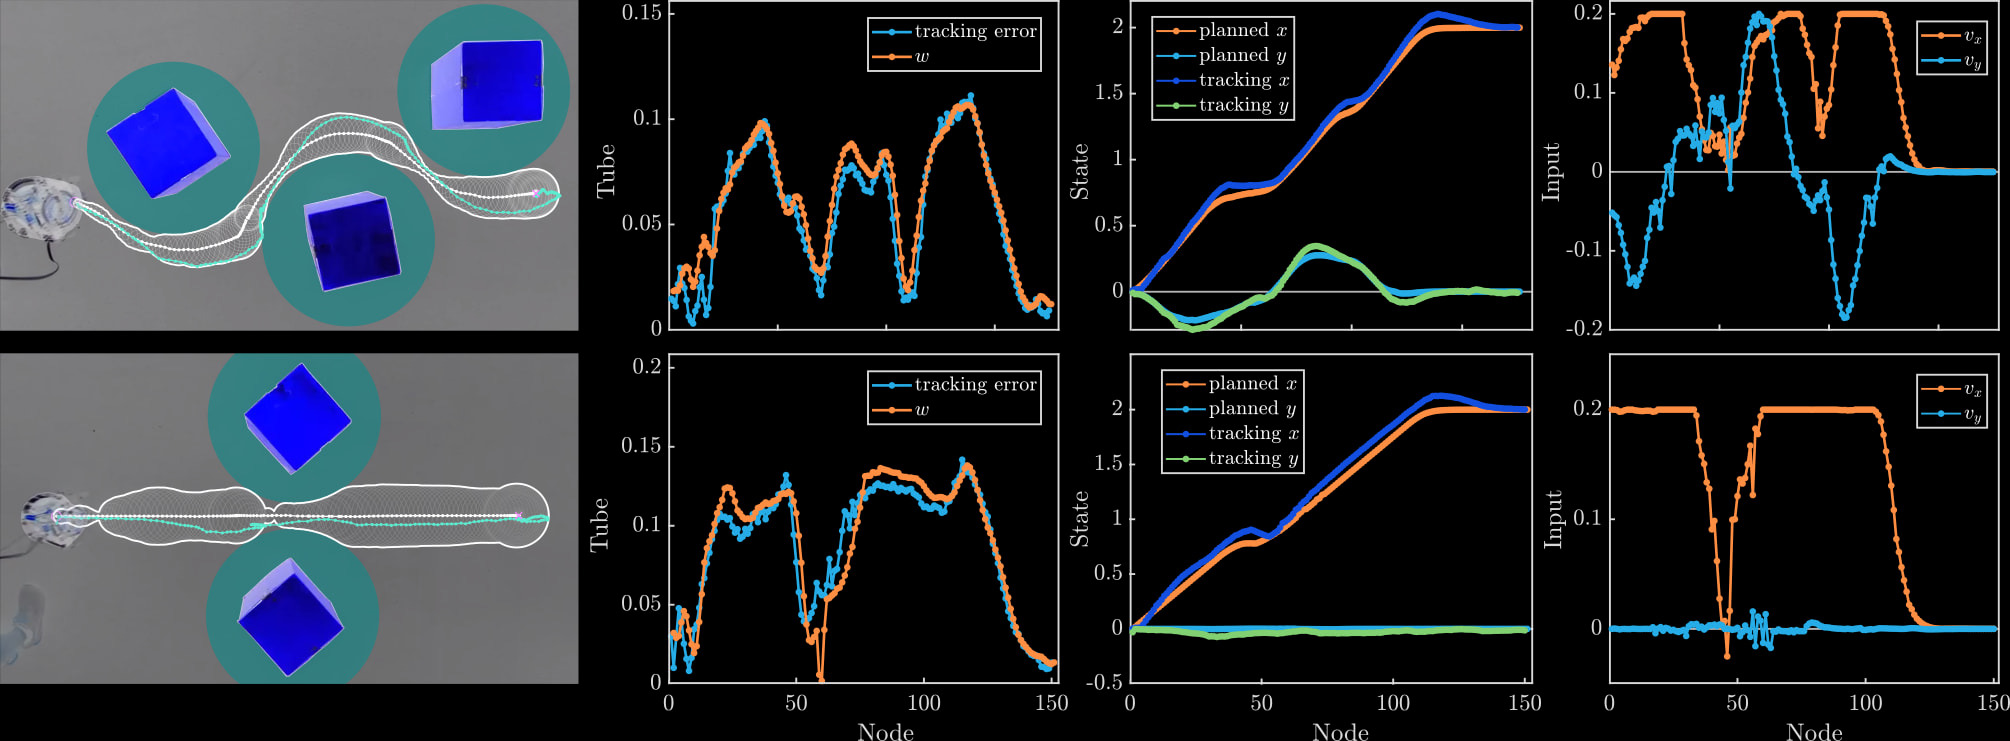
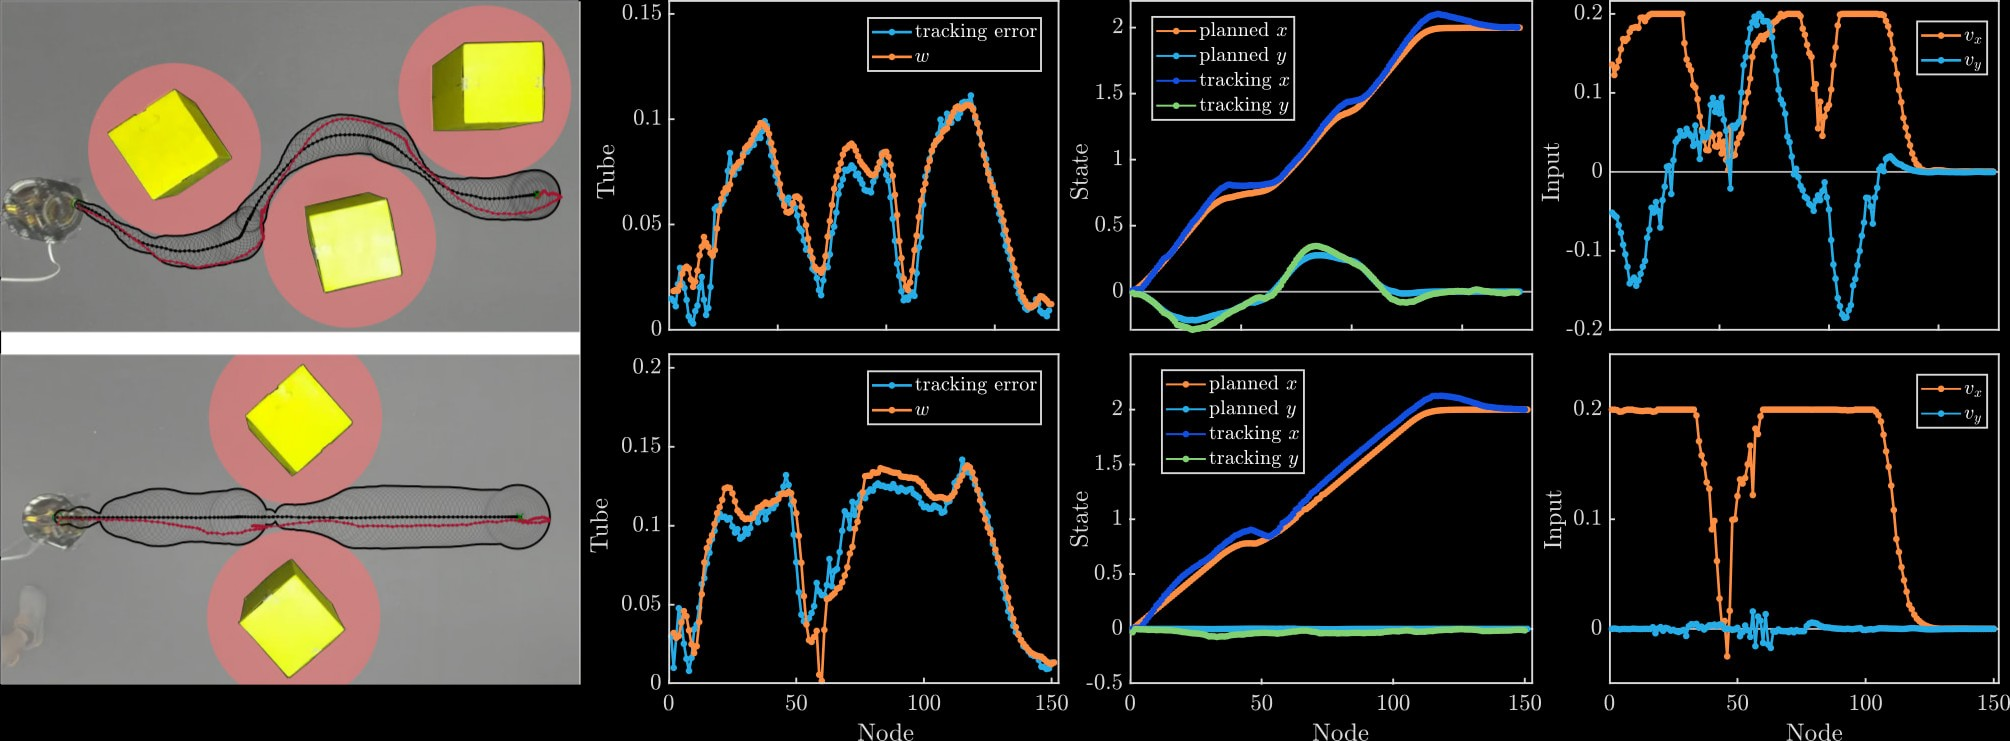
mathjax debugging

diff --git a/_carousel/dtmpc.md b/_carousel/dtmpc.md
@@ -1,5 +1,5 @@
 ---
 title: "Dynamic Tube MPC"
-img: img/dtmpc/hardware.jpg
+img: img/dtmpc/hardware_inv.jpg
 link_url: /papers/dynamic-tube-mpc/
 ---
